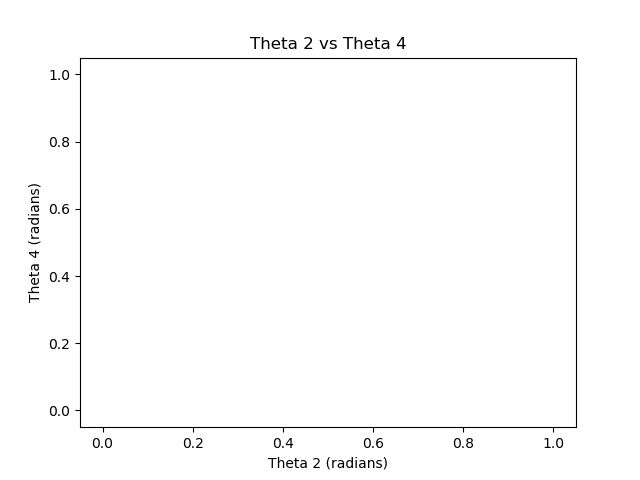
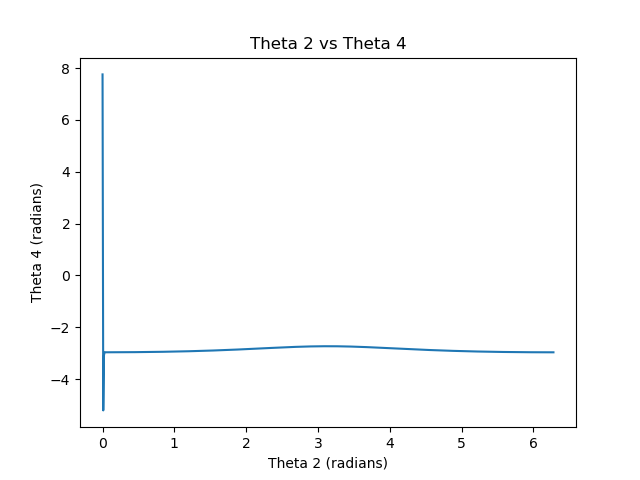
fixed while loop syntax

diff --git a/Positions.py b/Positions.py
@@ -33,7 +33,7 @@ w2 = input.loc[20,'Value'] #radians per second
 positions = pd.DataFrame(columns=['theta_2','theta_3','R3','theta_4','R4','R5','h3','f3','h4','f4','f5','h3p','f3p','h4p','f4p','f5p'])
 r=0 #row Counter
 
-while input.loc[18,'Value'] < theta_2 < input.loc[19,'Value']:
+while  theta_2 < input.loc[19,'Value']:
     #finding the sines and cosines of all the angles
     ct2 = cos(theta_2)
     st2 = sin(theta_2)
@@ -126,6 +126,7 @@ while input.loc[18,'Value'] < theta_2 < input.loc[19,'Value']:
 
     theta_2 +=.01
     r += 1
+print(positions)
 #Generating t2 vs h3 plot
 plt.figure(1)
 plt.plot(positions.theta_2,positions.theta_3)
